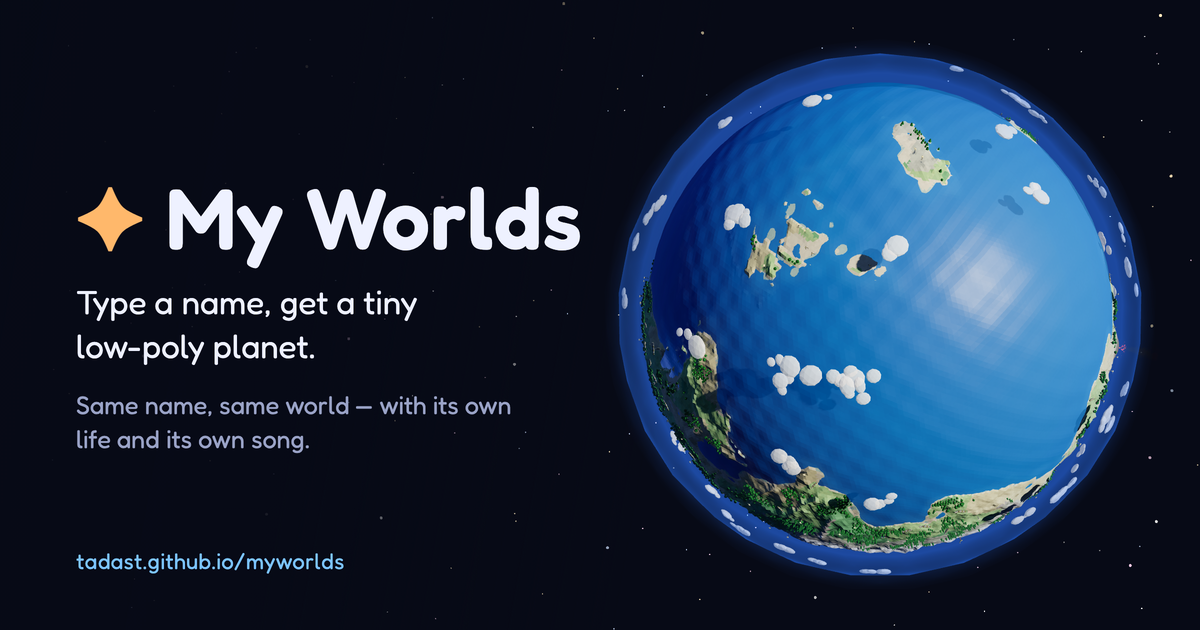
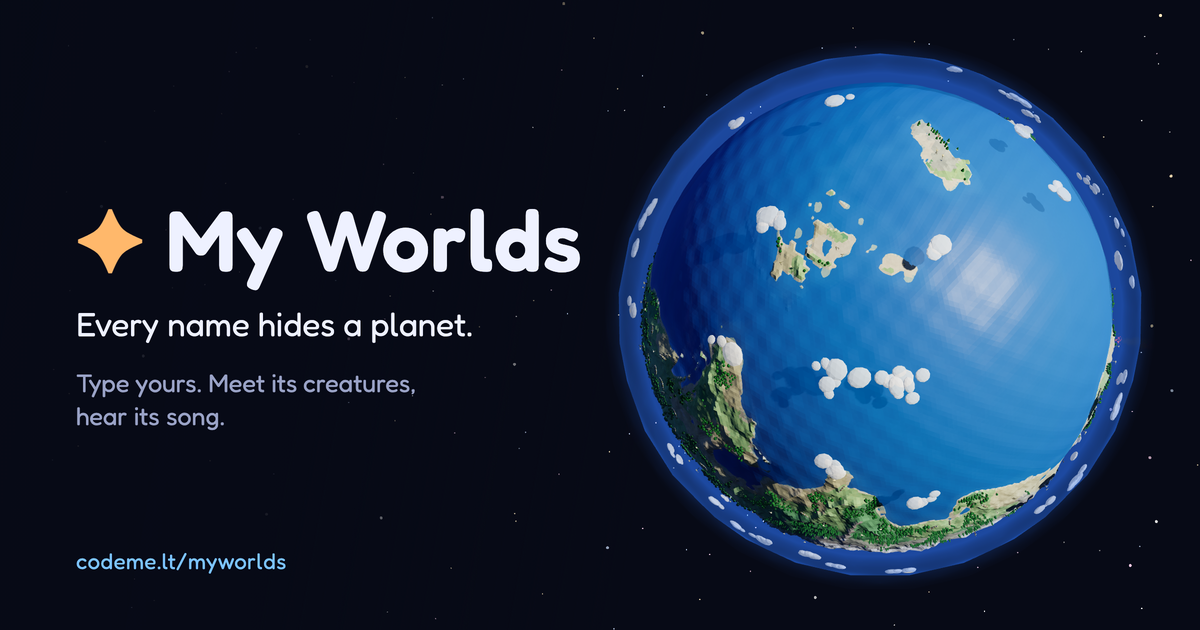
Copy: every name hides a planet, and the card points at codeme.lt
The title, the sidebar line, and the share card now tease the world
instead of describing the mesh. The card and the meta tags use
codeme.lt/myworlds.

diff --git a/index.html b/index.html
@@ -3,25 +3,25 @@
 <head>
   <meta charset="utf-8">
   <meta name="viewport" content="width=device-width, initial-scale=1, viewport-fit=cover, user-scalable=no">
-  <title>My Worlds — your name, your planet</title>
-  <meta name="description" content="Type a name, get a tiny low-poly planet. Same name, same world.">
+  <title>My Worlds — every name hides a planet</title>
+  <meta name="description" content="Every name hides a planet. Type yours and meet its creatures, its weather, and its song.">
   <meta name="theme-color" content="#070a16">
   <link rel="icon" href="./favicon.ico" sizes="16x16 32x32 48x48">
   <link rel="icon" href="./icon.svg" type="image/svg+xml">
   <link rel="apple-touch-icon" href="./assets/apple-touch-icon.png">
   <meta property="og:type" content="website">
   <meta property="og:site_name" content="My Worlds">
-  <meta property="og:title" content="My Worlds — your name, your planet">
-  <meta property="og:description" content="Type a name, get a tiny low-poly planet. Same name, same world.">
-  <meta property="og:url" content="https://tadast.github.io/myworlds/">
-  <meta property="og:image" content="https://tadast.github.io/myworlds/assets/share.png">
+  <meta property="og:title" content="My Worlds — every name hides a planet">
+  <meta property="og:description" content="Every name hides a planet. Type yours and meet its creatures, its weather, and its song.">
+  <meta property="og:url" content="https://codeme.lt/myworlds/">
+  <meta property="og:image" content="https://codeme.lt/myworlds/assets/share.png">
   <meta property="og:image:width" content="1200">
   <meta property="og:image:height" content="630">
-  <meta property="og:image:alt" content="A low-poly ocean planet in space beside the words My Worlds.">
+  <meta property="og:image:alt" content="A low-poly ocean planet in space beside the words My Worlds and Every name hides a planet.">
   <meta name="twitter:card" content="summary_large_image">
-  <meta name="twitter:title" content="My Worlds — your name, your planet">
-  <meta name="twitter:description" content="Type a name, get a tiny low-poly planet. Same name, same world.">
-  <meta name="twitter:image" content="https://tadast.github.io/myworlds/assets/share.png">
+  <meta name="twitter:title" content="My Worlds — every name hides a planet">
+  <meta name="twitter:description" content="Every name hides a planet. Type yours and meet its creatures, its weather, and its song.">
+  <meta name="twitter:image" content="https://codeme.lt/myworlds/assets/share.png">
   <link rel="preconnect" href="https://fonts.googleapis.com">
   <link rel="preconnect" href="https://fonts.gstatic.com" crossorigin>
   <link href="https://fonts.googleapis.com/css2?family=Fredoka:wght@400;500;600&display=swap" rel="stylesheet">
@@ -50,7 +50,7 @@
           <button type="submit" class="go">Generate</button>
           <button type="button" id="dice" title="Random world" aria-label="Random world">🎲</button>
         </form>
-        <p class="sub">Same name, same world. Every time.</p>
+        <p class="sub">Every name hides a planet. The same name always finds the same one.</p>
       </section>
 
       <section class="sec" id="info" aria-live="polite" hidden>

diff --git a/tools/share-image.html b/tools/share-image.html
@@ -20,10 +20,10 @@ p{margin:0;font-size:33px;font-weight:400;color:#eef1ff;line-height:1.35;max-wid
   <div id="scrim"></div>
   <div id="txt">
     <h1><span class="logo">✦</span> My Worlds</h1>
-    <p>Type a name, get a tiny<br>low-poly planet.</p>
-    <p class="sub">Same name, same world — with its own life and its own song.</p>
+    <p>Every name hides a planet.</p>
+    <p class="sub">Type yours. Meet its creatures,<br>hear its song.</p>
   </div>
-  <div class="url">tadast.github.io/myworlds</div>
+  <div class="url">codeme.lt/myworlds</div>
 </div>
 <script>
 const f = document.getElementById('f');
